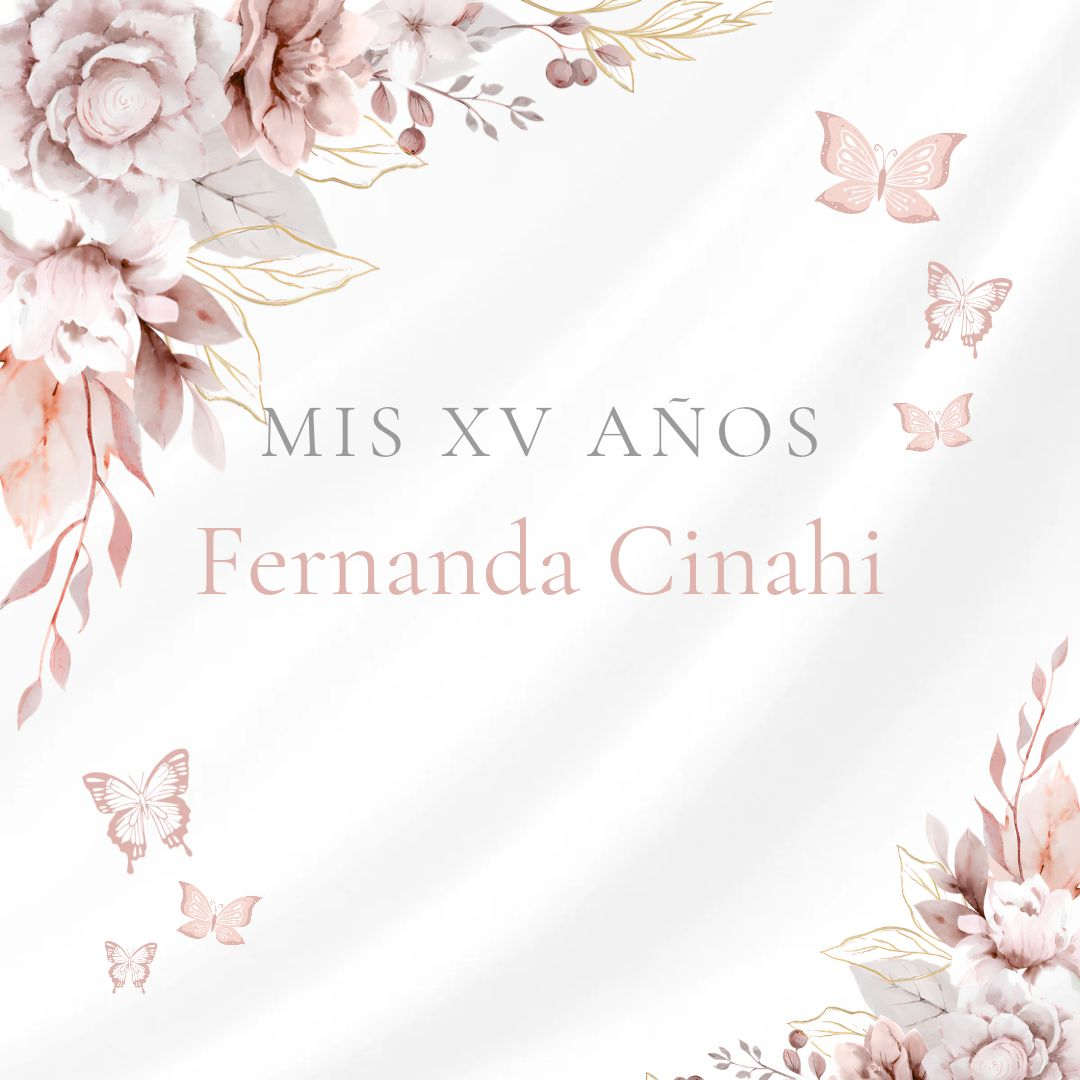
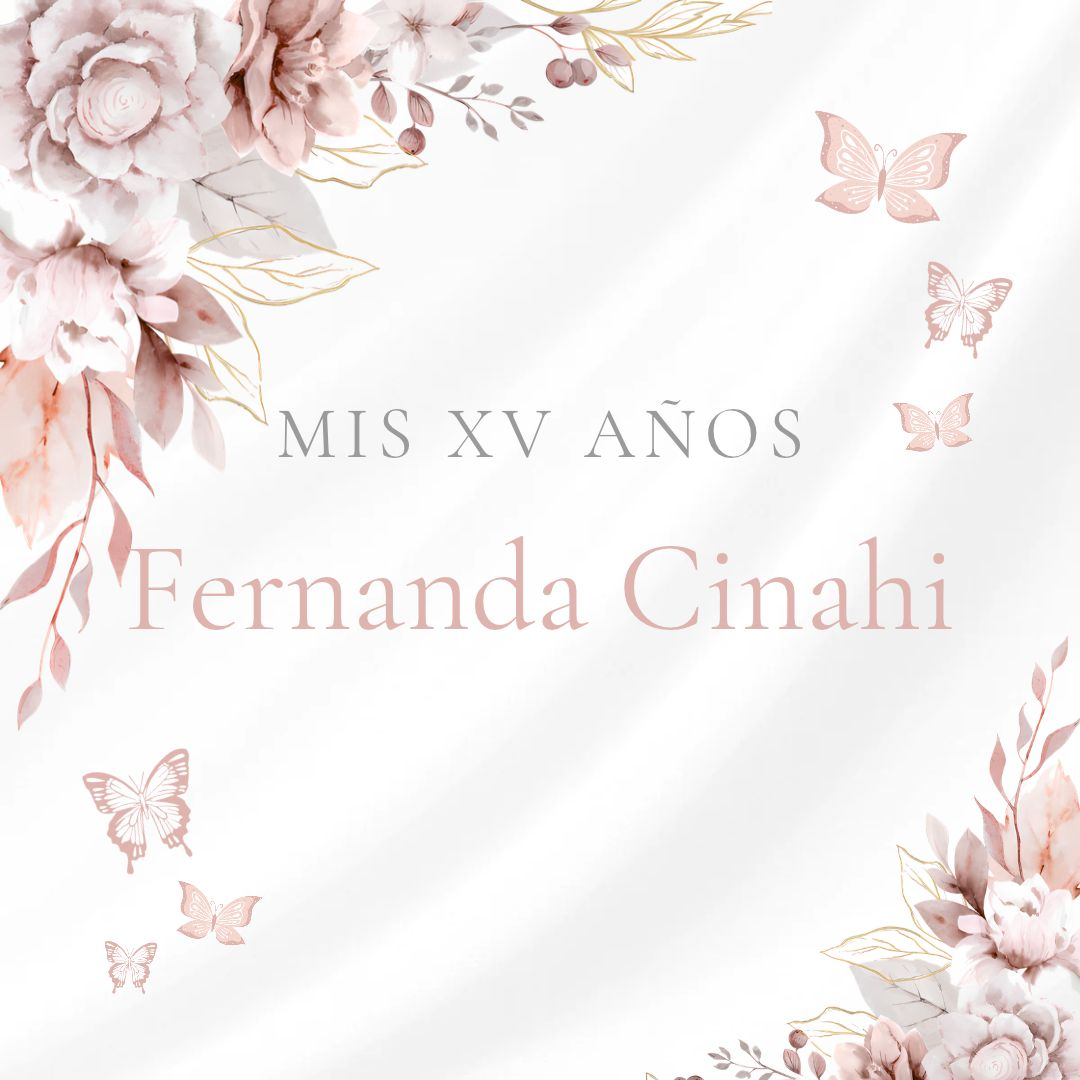
Add files via upload

diff --git a/inicio.html b/inicio.html
@@ -226,7 +226,7 @@
 
 <img  class="imagen1" style="margin-bottom: 0px;" src="img/seccion1.jpeg" >
 
-<div class="invitado col-12 mb-0 mt-0" style="background-color: transparent; position: relative;"> 
+<div class="invitado col-12 mb-0 mt-5" style="background-color: transparent; position: relative;"> 
     
         <br><br>
         <h5 class='dondeyCuando col-12 col-lg-12 mt-0 mb-0 text-center' >¿Dónde?</h5> 
@@ -559,7 +559,7 @@
     </div>-->
 
 <div class="row justify-content-center" style="margin:0 auto;">
-<h2 class="respetuosamente col-11 col-md-6 mt-3 text-center">Nos gustaría pudieras asistir y compartir con nosotros este día tan especial. Te rogamos nos pudieras confirmar tu asistencia antes del <b>15 DE JULIO DE 2025 </b>y apoyarnos con tu nombre para asignar tus lugares.</h2>
+<h2 class="respetuosamente col-11 col-md-6 mt-3 text-center">Nos gustaría pudieras asistir y compartir con nosotros este día tan especial. Te rogamos nos pudieras confirmar tu asistencia antes del <b>15 DE NOVIEMBRE DE 2026 </b>y apoyarnos con tu nombre para asignar tus lugares.</h2>
 </div>
 
 <div class="container" style="margin:0 auto;">

diff --git a/js/countdown.js b/js/countdown.js
@@ -2,8 +2,8 @@ simplyCountdown('#cuenta', {
 	year: 2026, // required
 	month: 11, // required
 	day: 20, // required
-	hours: 11, // Default is 0 [0-23] integer
-	minutes: 50, // Default is 0 [0-59] integer
+	hours: 12, // Default is 0 [0-23] integer
+	minutes: 0, // Default is 0 [0-59] integer
 	seconds: 0, // Default is 0 [0-59] integer
 	words: { //words displayed into the countdown
 		days: 'Días',
